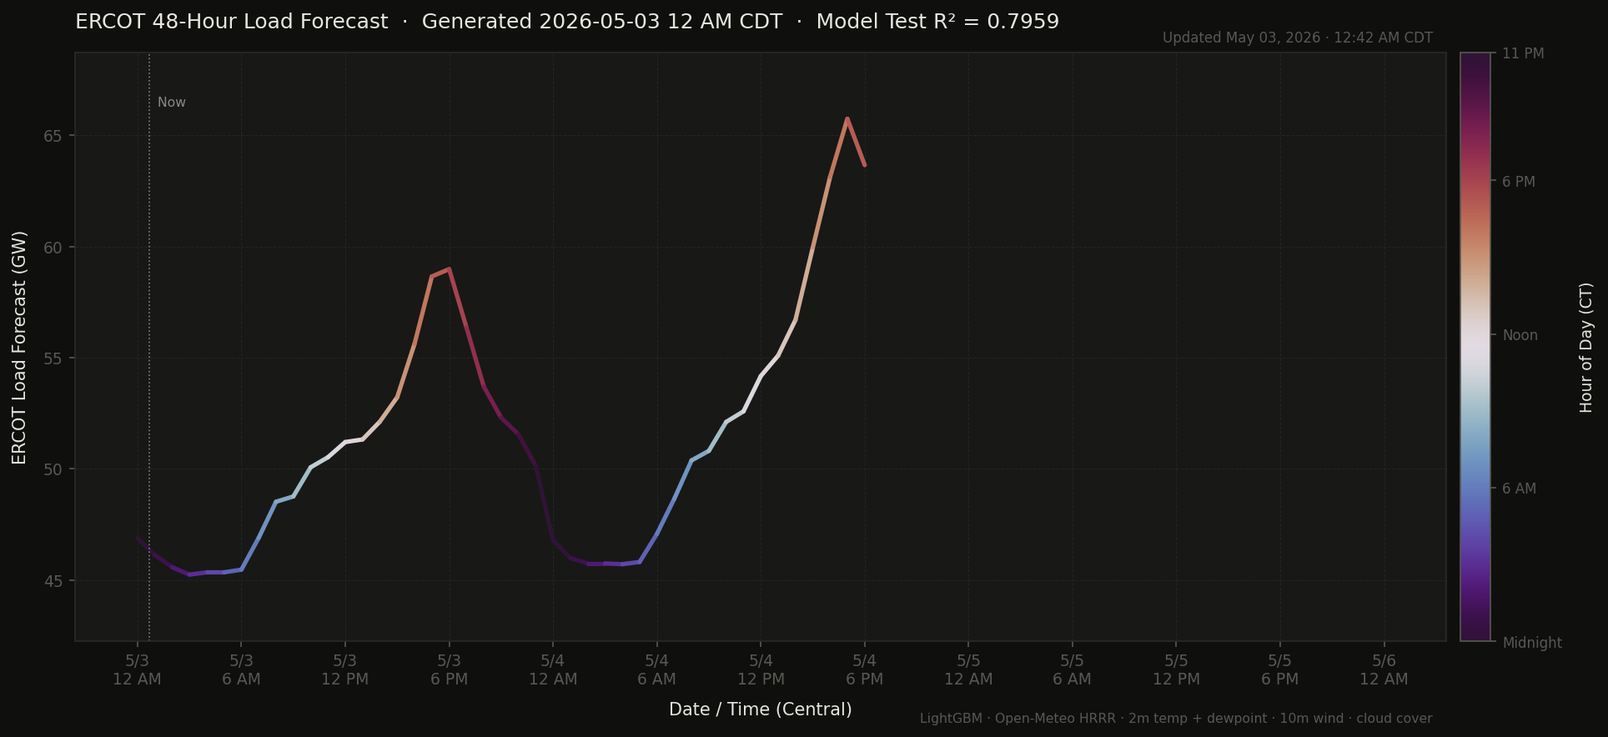
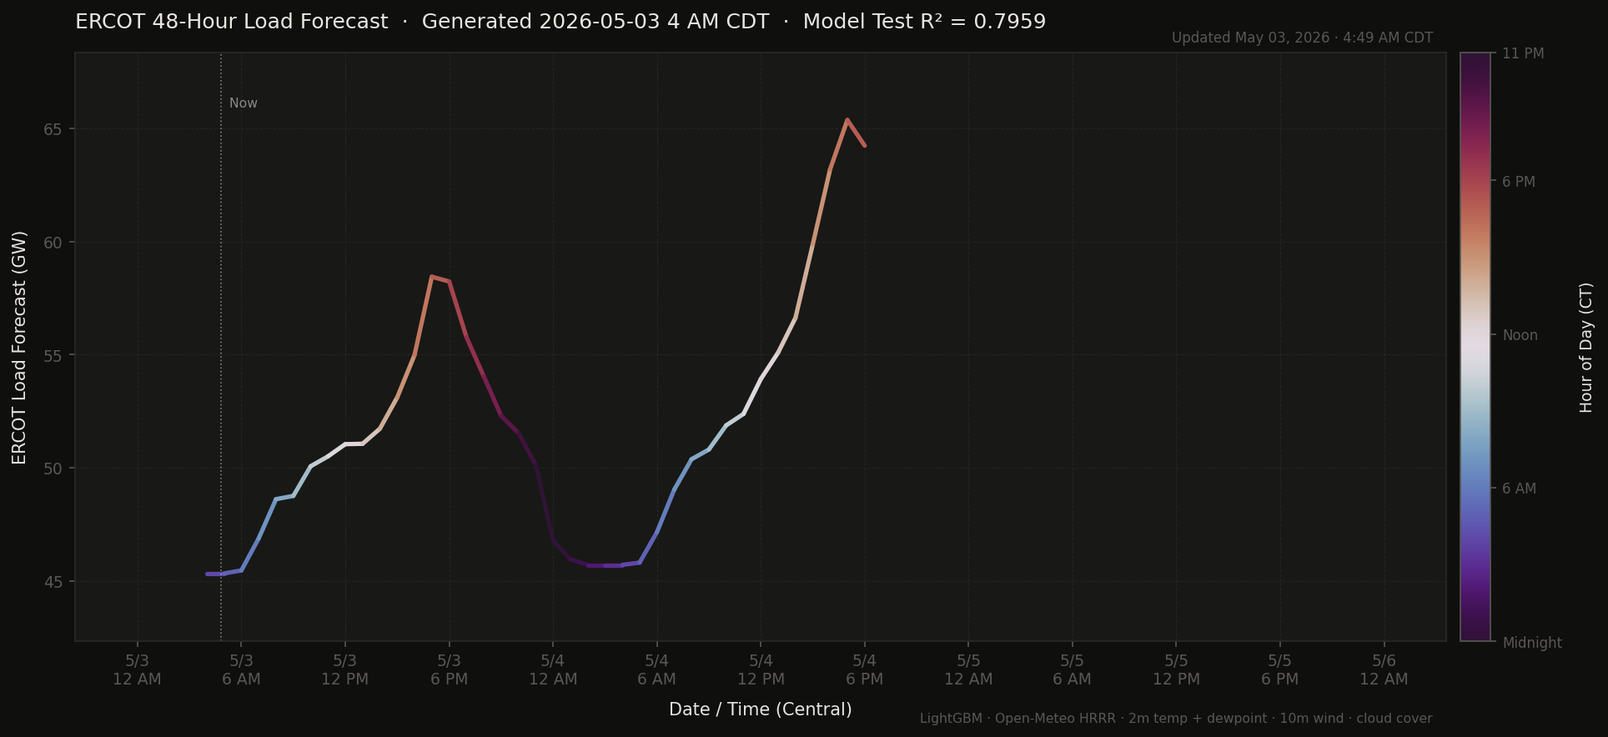
chore: update ERCOT load forecast [skip ci]

diff --git a/assets/ercot_forecast.html b/assets/ercot_forecast.html
@@ -2,6 +2,6 @@
 <head><meta charset="utf-8" /></head>
 <body>
     <div>                        <script type="text/javascript">window.PlotlyConfig = {MathJaxConfig: 'local'};</script>
-        <script charset="utf-8" src="https://cdn.plot.ly/plotly-2.32.0.min.js"></script>                <div id="b00d981a-18de-4667-88ca-a6a5ba4282c7" class="plotly-graph-div" style="height:480px; width:100%;"></div>            <script type="text/javascript">                                    window.PLOTLYENV=window.PLOTLYENV || {};                                    if (document.getElementById("b00d981a-18de-4667-88ca-a6a5ba4282c7")) {                    Plotly.newPlot(                        "b00d981a-18de-4667-88ca-a6a5ba4282c7",                        [{"hoverinfo":"text","hovertext":["\u003cb\u003eSat May 2 \u00b7 12:00 AM\u003c\u002fb\u003e\u003cbr\u003eActual: 43.38 GW","\u003cb\u003eSat May 2 \u00b7 1:00 AM\u003c\u002fb\u003e\u003cbr\u003eActual: 42.09 GW","\u003cb\u003eSat May 2 \u00b7 2:00 AM\u003c\u002fb\u003e\u003cbr\u003eActual: 40.99 GW","\u003cb\u003eSat May 2 \u00b7 3:00 AM\u003c\u002fb\u003e\u003cbr\u003eActual: 40.64 GW","\u003cb\u003eSat May 2 \u00b7 4:00 AM\u003c\u002fb\u003e\u003cbr\u003eActual: 40.68 GW","\u003cb\u003eSat May 2 \u00b7 5:00 AM\u003c\u002fb\u003e\u003cbr\u003eActual: 40.95 GW","\u003cb\u003eSat May 2 \u00b7 6:00 AM\u003c\u002fb\u003e\u003cbr\u003eActual: 41.72 GW","\u003cb\u003eSat May 2 \u00b7 7:00 AM\u003c\u002fb\u003e\u003cbr\u003eActual: 42.31 GW","\u003cb\u003eSat May 2 \u00b7 8:00 AM\u003c\u002fb\u003e\u003cbr\u003eActual: 44.93 GW","\u003cb\u003eSat May 2 \u00b7 9:00 AM\u003c\u002fb\u003e\u003cbr\u003eActual: 45.77 GW","\u003cb\u003eSat May 2 \u00b7 10:00 AM\u003c\u002fb\u003e\u003cbr\u003eActual: 46.27 GW","\u003cb\u003eSat May 2 \u00b7 11:00 AM\u003c\u002fb\u003e\u003cbr\u003eActual: 46.82 GW","\u003cb\u003eSat May 2 \u00b7 12:00 PM\u003c\u002fb\u003e\u003cbr\u003eActual: 47.22 GW","\u003cb\u003eSat May 2 \u00b7 1:00 PM\u003c\u002fb\u003e\u003cbr\u003eActual: 47.73 GW","\u003cb\u003eSat May 2 \u00b7 2:00 PM\u003c\u002fb\u003e\u003cbr\u003eActual: 48.48 GW","\u003cb\u003eSat May 2 \u00b7 3:00 PM\u003c\u002fb\u003e\u003cbr\u003eActual: 49.77 GW","\u003cb\u003eSat May 2 \u00b7 4:00 PM\u003c\u002fb\u003e\u003cbr\u003eActual: 51.24 GW","\u003cb\u003eSat May 2 \u00b7 5:00 PM\u003c\u002fb\u003e\u003cbr\u003eActual: 52.40 GW","\u003cb\u003eSat May 2 \u00b7 6:00 PM\u003c\u002fb\u003e\u003cbr\u003eActual: 52.58 GW","\u003cb\u003eSat May 2 \u00b7 7:00 PM\u003c\u002fb\u003e\u003cbr\u003eActual: 51.52 GW","\u003cb\u003eSat May 2 \u00b7 8:00 PM\u003c\u002fb\u003e\u003cbr\u003eActual: 50.97 GW","\u003cb\u003eSat May 2 \u00b7 9:00 PM\u003c\u002fb\u003e\u003cbr\u003eActual: 50.08 GW","\u003cb\u003eSat May 2 \u00b7 10:00 PM\u003c\u002fb\u003e\u003cbr\u003eActual: 48.04 GW","\u003cb\u003eSat May 2 \u00b7 11:00 PM\u003c\u002fb\u003e\u003cbr\u003eActual: 45.97 GW","\u003cb\u003eSat May 2 \u00b7 11:55 PM\u003c\u002fb\u003e\u003cbr\u003eActual: 44.88 GW","\u003cb\u003eSun May 3 \u00b7 12:00 AM\u003c\u002fb\u003e\u003cbr\u003eActual: 44.61 GW","\u003cb\u003eSun May 3 \u00b7 12:05 AM\u003c\u002fb\u003e\u003cbr\u003eActual: 44.63 GW","\u003cb\u003eSun May 3 \u00b7 12:10 AM\u003c\u002fb\u003e\u003cbr\u003eActual: 44.39 GW","\u003cb\u003eSun May 3 \u00b7 12:15 AM\u003c\u002fb\u003e\u003cbr\u003eActual: 44.37 GW","\u003cb\u003eSun May 3 \u00b7 12:20 AM\u003c\u002fb\u003e\u003cbr\u003eActual: 44.26 GW","\u003cb\u003eSun May 3 \u00b7 12:25 AM\u003c\u002fb\u003e\u003cbr\u003eActual: 43.86 GW","\u003cb\u003eSun May 3 \u00b7 12:30 AM\u003c\u002fb\u003e\u003cbr\u003eActual: 43.66 GW","\u003cb\u003eSun May 3 \u00b7 12:35 AM\u003c\u002fb\u003e\u003cbr\u003eActual: 43.77 GW"],"line":{"color":"#a8a59f","width":1.8},"mode":"lines","name":"Actual (5-min)","opacity":0.85,"x":["2026-05-02T00:00:00","2026-05-02T01:00:00","2026-05-02T02:00:00","2026-05-02T03:00:00","2026-05-02T04:00:00","2026-05-02T05:00:00","2026-05-02T06:00:00","2026-05-02T07:00:00","2026-05-02T08:00:00","2026-05-02T09:00:00","2026-05-02T10:00:00","2026-05-02T11:00:00","2026-05-02T12:00:00","2026-05-02T13:00:00","2026-05-02T14:00:00","2026-05-02T15:00:00","2026-05-02T16:00:00","2026-05-02T17:00:00","2026-05-02T18:00:00","2026-05-02T19:00:00","2026-05-02T20:00:00","2026-05-02T21:00:00","2026-05-02T22:00:00","2026-05-02T23:00:00","2026-05-02T23:55:00","2026-05-03T00:00:00","2026-05-03T00:05:00","2026-05-03T00:10:00","2026-05-03T00:15:00","2026-05-03T00:20:00","2026-05-03T00:25:00","2026-05-03T00:30:00","2026-05-03T00:35:00"],"y":[43.379419999999996,42.09296,40.99112,40.6373,40.675839999999994,40.94999,41.72053,42.312760000000004,44.93495,45.771370000000005,46.273900000000005,46.822160000000004,47.222559999999994,47.72683,48.47675,49.77391,51.237629999999996,52.402190000000004,52.5769,51.518339999999995,50.96886,50.07847,48.04341,45.969730000000006,44.875,44.606,44.629,44.391,44.371,44.259,43.863,43.66,43.765],"type":"scatter"},{"hoverinfo":"text","hovertext":["\u003cb\u003eSun May 3 \u00b7 12 AM\u003c\u002fb\u003e\u003cbr\u003eForecast: 46.88 GW","\u003cb\u003eSun May 3 \u00b7 1 AM\u003c\u002fb\u003e\u003cbr\u003eForecast: 46.12 GW","\u003cb\u003eSun May 3 \u00b7 2 AM\u003c\u002fb\u003e\u003cbr\u003eForecast: 45.57 GW","\u003cb\u003eSun May 3 \u00b7 3 AM\u003c\u002fb\u003e\u003cbr\u003eForecast: 45.24 GW","\u003cb\u003eSun May 3 \u00b7 4 AM\u003c\u002fb\u003e\u003cbr\u003eForecast: 45.34 GW","\u003cb\u003eSun May 3 \u00b7 5 AM\u003c\u002fb\u003e\u003cbr\u003eForecast: 45.34 GW","\u003cb\u003eSun May 3 \u00b7 6 AM\u003c\u002fb\u003e\u003cbr\u003eForecast: 45.46 GW","\u003cb\u003eSun May 3 \u00b7 7 AM\u003c\u002fb\u003e\u003cbr\u003eForecast: 46.89 GW","\u003cb\u003eSun May 3 \u00b7 8 AM\u003c\u002fb\u003e\u003cbr\u003eForecast: 48.51 GW","\u003cb\u003eSun May 3 \u00b7 9 AM\u003c\u002fb\u003e\u003cbr\u003eForecast: 48.75 GW","\u003cb\u003eSun May 3 \u00b7 10 AM\u003c\u002fb\u003e\u003cbr\u003eForecast: 50.06 GW","\u003cb\u003eSun May 3 \u00b7 11 AM\u003c\u002fb\u003e\u003cbr\u003eForecast: 50.52 GW","\u003cb\u003eSun May 3 \u00b7 12 PM\u003c\u002fb\u003e\u003cbr\u003eForecast: 51.20 GW","\u003cb\u003eSun May 3 \u00b7 1 PM\u003c\u002fb\u003e\u003cbr\u003eForecast: 51.32 GW","\u003cb\u003eSun May 3 \u00b7 2 PM\u003c\u002fb\u003e\u003cbr\u003eForecast: 52.12 GW","\u003cb\u003eSun May 3 \u00b7 3 PM\u003c\u002fb\u003e\u003cbr\u003eForecast: 53.22 GW","\u003cb\u003eSun May 3 \u00b7 4 PM\u003c\u002fb\u003e\u003cbr\u003eForecast: 55.62 GW","\u003cb\u003eSun May 3 \u00b7 5 PM\u003c\u002fb\u003e\u003cbr\u003eForecast: 58.65 GW","\u003cb\u003eSun May 3 \u00b7 6 PM\u003c\u002fb\u003e\u003cbr\u003eForecast: 58.98 GW","\u003cb\u003eSun May 3 \u00b7 7 PM\u003c\u002fb\u003e\u003cbr\u003eForecast: 56.35 GW","\u003cb\u003eSun May 3 \u00b7 8 PM\u003c\u002fb\u003e\u003cbr\u003eForecast: 53.70 GW","\u003cb\u003eSun May 3 \u00b7 9 PM\u003c\u002fb\u003e\u003cbr\u003eForecast: 52.30 GW","\u003cb\u003eSun May 3 \u00b7 10 PM\u003c\u002fb\u003e\u003cbr\u003eForecast: 51.55 GW","\u003cb\u003eSun May 3 \u00b7 11 PM\u003c\u002fb\u003e\u003cbr\u003eForecast: 50.13 GW","\u003cb\u003eMon May 4 \u00b7 12 AM\u003c\u002fb\u003e\u003cbr\u003eForecast: 46.78 GW","\u003cb\u003eMon May 4 \u00b7 1 AM\u003c\u002fb\u003e\u003cbr\u003eForecast: 45.99 GW","\u003cb\u003eMon May 4 \u00b7 2 AM\u003c\u002fb\u003e\u003cbr\u003eForecast: 45.74 GW","\u003cb\u003eMon May 4 \u00b7 3 AM\u003c\u002fb\u003e\u003cbr\u003eForecast: 45.74 GW","\u003cb\u003eMon May 4 \u00b7 4 AM\u003c\u002fb\u003e\u003cbr\u003eForecast: 45.70 GW","\u003cb\u003eMon May 4 \u00b7 5 AM\u003c\u002fb\u003e\u003cbr\u003eForecast: 45.80 GW","\u003cb\u003eMon May 4 \u00b7 6 AM\u003c\u002fb\u003e\u003cbr\u003eForecast: 47.07 GW","\u003cb\u003eMon May 4 \u00b7 7 AM\u003c\u002fb\u003e\u003cbr\u003eForecast: 48.64 GW","\u003cb\u003eMon May 4 \u00b7 8 AM\u003c\u002fb\u003e\u003cbr\u003eForecast: 50.38 GW","\u003cb\u003eMon May 4 \u00b7 9 AM\u003c\u002fb\u003e\u003cbr\u003eForecast: 50.80 GW","\u003cb\u003eMon May 4 \u00b7 10 AM\u003c\u002fb\u003e\u003cbr\u003eForecast: 52.11 GW","\u003cb\u003eMon May 4 \u00b7 11 AM\u003c\u002fb\u003e\u003cbr\u003eForecast: 52.58 GW","\u003cb\u003eMon May 4 \u00b7 12 PM\u003c\u002fb\u003e\u003cbr\u003eForecast: 54.17 GW","\u003cb\u003eMon May 4 \u00b7 1 PM\u003c\u002fb\u003e\u003cbr\u003eForecast: 55.09 GW","\u003cb\u003eMon May 4 \u00b7 2 PM\u003c\u002fb\u003e\u003cbr\u003eForecast: 56.69 GW","\u003cb\u003eMon May 4 \u00b7 3 PM\u003c\u002fb\u003e\u003cbr\u003eForecast: 59.94 GW","\u003cb\u003eMon May 4 \u00b7 4 PM\u003c\u002fb\u003e\u003cbr\u003eForecast: 63.13 GW","\u003cb\u003eMon May 4 \u00b7 5 PM\u003c\u002fb\u003e\u003cbr\u003eForecast: 65.74 GW","\u003cb\u003eMon May 4 \u00b7 6 PM\u003c\u002fb\u003e\u003cbr\u003eForecast: 63.66 GW"],"line":{"color":"#7e9fc7","shape":"spline","smoothing":1.3,"width":3},"marker":{"color":["#1a1a2e","#1f2240","#27314f","#314058","#3b4f5e","#465e62","#536c64","#637765","#778066","#8c8869","#a18e6f","#b6917a","#c79289","#d39198","#dc8da6","#e088b3","#df85bf","#d683c9","#c283ce","#a784ce","#8585c9","#6685bf","#4f80ad","#3a7095","#1a1a2e","#1f2240","#27314f","#314058","#3b4f5e","#465e62","#536c64","#637765","#778066","#8c8869","#a18e6f","#b6917a","#c79289","#d39198","#dc8da6","#e088b3","#df85bf","#d683c9","#c283ce"],"line":{"width":0},"size":7},"mode":"lines+markers","name":"Forecast","x":["2026-05-03T00:00:00","2026-05-03T01:00:00","2026-05-03T02:00:00","2026-05-03T03:00:00","2026-05-03T04:00:00","2026-05-03T05:00:00","2026-05-03T06:00:00","2026-05-03T07:00:00","2026-05-03T08:00:00","2026-05-03T09:00:00","2026-05-03T10:00:00","2026-05-03T11:00:00","2026-05-03T12:00:00","2026-05-03T13:00:00","2026-05-03T14:00:00","2026-05-03T15:00:00","2026-05-03T16:00:00","2026-05-03T17:00:00","2026-05-03T18:00:00","2026-05-03T19:00:00","2026-05-03T20:00:00","2026-05-03T21:00:00","2026-05-03T22:00:00","2026-05-03T23:00:00","2026-05-04T00:00:00","2026-05-04T01:00:00","2026-05-04T02:00:00","2026-05-04T03:00:00","2026-05-04T04:00:00","2026-05-04T05:00:00","2026-05-04T06:00:00","2026-05-04T07:00:00","2026-05-04T08:00:00","2026-05-04T09:00:00","2026-05-04T10:00:00","2026-05-04T11:00:00","2026-05-04T12:00:00","2026-05-04T13:00:00","2026-05-04T14:00:00","2026-05-04T15:00:00","2026-05-04T16:00:00","2026-05-04T17:00:00","2026-05-04T18:00:00"],"y":[46.88410940593108,46.120013578711884,45.56938439842476,45.23647445698657,45.338788323135894,45.338788323135894,45.45866852709373,46.891542672022524,48.514093267162075,48.75398609909169,50.063702171421674,50.517558592199194,51.200449757712896,51.31757168117349,52.12127066742294,53.21688382047826,55.61986878753003,58.65045441562073,58.98036332780021,56.3530380492227,53.697558109508115,52.29703616559613,51.548713383759626,50.13023349258877,46.77686061354444,45.98643932288479,45.74104678889874,45.74104678889874,45.704402494295934,45.8048870842264,47.06743831650536,48.64470399108558,50.375204729896055,50.80477012295877,52.1058897941358,52.58267622018793,54.17064169252831,55.09142990189956,56.69297581808881,59.94299753213705,63.12544730277149,65.74352612319161,63.65978026186073],"type":"scatter"}],                        {"template":{"data":{"histogram2dcontour":[{"type":"histogram2dcontour","colorbar":{"outlinewidth":0,"ticks":""},"colorscale":[[0.0,"#0d0887"],[0.1111111111111111,"#46039f"],[0.2222222222222222,"#7201a8"],[0.3333333333333333,"#9c179e"],[0.4444444444444444,"#bd3786"],[0.5555555555555556,"#d8576b"],[0.6666666666666666,"#ed7953"],[0.7777777777777778,"#fb9f3a"],[0.8888888888888888,"#fdca26"],[1.0,"#f0f921"]]}],"choropleth":[{"type":"choropleth","colorbar":{"outlinewidth":0,"ticks":""}}],"histogram2d":[{"type":"histogram2d","colorbar":{"outlinewidth":0,"ticks":""},"colorscale":[[0.0,"#0d0887"],[0.1111111111111111,"#46039f"],[0.2222222222222222,"#7201a8"],[0.3333333333333333,"#9c179e"],[0.4444444444444444,"#bd3786"],[0.5555555555555556,"#d8576b"],[0.6666666666666666,"#ed7953"],[0.7777777777777778,"#fb9f3a"],[0.8888888888888888,"#fdca26"],[1.0,"#f0f921"]]}],"heatmap":[{"type":"heatmap","colorbar":{"outlinewidth":0,"ticks":""},"colorscale":[[0.0,"#0d0887"],[0.1111111111111111,"#46039f"],[0.2222222222222222,"#7201a8"],[0.3333333333333333,"#9c179e"],[0.4444444444444444,"#bd3786"],[0.5555555555555556,"#d8576b"],[0.6666666666666666,"#ed7953"],[0.7777777777777778,"#fb9f3a"],[0.8888888888888888,"#fdca26"],[1.0,"#f0f921"]]}],"heatmapgl":[{"type":"heatmapgl","colorbar":{"outlinewidth":0,"ticks":""},"colorscale":[[0.0,"#0d0887"],[0.1111111111111111,"#46039f"],[0.2222222222222222,"#7201a8"],[0.3333333333333333,"#9c179e"],[0.4444444444444444,"#bd3786"],[0.5555555555555556,"#d8576b"],[0.6666666666666666,"#ed7953"],[0.7777777777777778,"#fb9f3a"],[0.8888888888888888,"#fdca26"],[1.0,"#f0f921"]]}],"contourcarpet":[{"type":"contourcarpet","colorbar":{"outlinewidth":0,"ticks":""}}],"contour":[{"type":"contour","colorbar":{"outlinewidth":0,"ticks":""},"colorscale":[[0.0,"#0d0887"],[0.1111111111111111,"#46039f"],[0.2222222222222222,"#7201a8"],[0.3333333333333333,"#9c179e"],[0.4444444444444444,"#bd3786"],[0.5555555555555556,"#d8576b"],[0.6666666666666666,"#ed7953"],[0.7777777777777778,"#fb9f3a"],[0.8888888888888888,"#fdca26"],[1.0,"#f0f921"]]}],"surface":[{"type":"surface","colorbar":{"outlinewidth":0,"ticks":""},"colorscale":[[0.0,"#0d0887"],[0.1111111111111111,"#46039f"],[0.2222222222222222,"#7201a8"],[0.3333333333333333,"#9c179e"],[0.4444444444444444,"#bd3786"],[0.5555555555555556,"#d8576b"],[0.6666666666666666,"#ed7953"],[0.7777777777777778,"#fb9f3a"],[0.8888888888888888,"#fdca26"],[1.0,"#f0f921"]]}],"mesh3d":[{"type":"mesh3d","colorbar":{"outlinewidth":0,"ticks":""}}],"scatter":[{"fillpattern":{"fillmode":"overlay","size":10,"solidity":0.2},"type":"scatter"}],"parcoords":[{"type":"parcoords","line":{"colorbar":{"outlinewidth":0,"ticks":""}}}],"scatterpolargl":[{"type":"scatterpolargl","marker":{"colorbar":{"outlinewidth":0,"ticks":""}}}],"bar":[{"error_x":{"color":"#2a3f5f"},"error_y":{"color":"#2a3f5f"},"marker":{"line":{"color":"#E5ECF6","width":0.5},"pattern":{"fillmode":"overlay","size":10,"solidity":0.2}},"type":"bar"}],"scattergeo":[{"type":"scattergeo","marker":{"colorbar":{"outlinewidth":0,"ticks":""}}}],"scatterpolar":[{"type":"scatterpolar","marker":{"colorbar":{"outlinewidth":0,"ticks":""}}}],"histogram":[{"marker":{"pattern":{"fillmode":"overlay","size":10,"solidity":0.2}},"type":"histogram"}],"scattergl":[{"type":"scattergl","marker":{"colorbar":{"outlinewidth":0,"ticks":""}}}],"scatter3d":[{"type":"scatter3d","line":{"colorbar":{"outlinewidth":0,"ticks":""}},"marker":{"colorbar":{"outlinewidth":0,"ticks":""}}}],"scattermapbox":[{"type":"scattermapbox","marker":{"colorbar":{"outlinewidth":0,"ticks":""}}}],"scatterternary":[{"type":"scatterternary","marker":{"colorbar":{"outlinewidth":0,"ticks":""}}}],"scattercarpet":[{"type":"scattercarpet","marker":{"colorbar":{"outlinewidth":0,"ticks":""}}}],"carpet":[{"aaxis":{"endlinecolor":"#2a3f5f","gridcolor":"white","linecolor":"white","minorgridcolor":"white","startlinecolor":"#2a3f5f"},"baxis":{"endlinecolor":"#2a3f5f","gridcolor":"white","linecolor":"white","minorgridcolor":"white","startlinecolor":"#2a3f5f"},"type":"carpet"}],"table":[{"cells":{"fill":{"color":"#EBF0F8"},"line":{"color":"white"}},"header":{"fill":{"color":"#C8D4E3"},"line":{"color":"white"}},"type":"table"}],"barpolar":[{"marker":{"line":{"color":"#E5ECF6","width":0.5},"pattern":{"fillmode":"overlay","size":10,"solidity":0.2}},"type":"barpolar"}],"pie":[{"automargin":true,"type":"pie"}]},"layout":{"autotypenumbers":"strict","colorway":["#636efa","#EF553B","#00cc96","#ab63fa","#FFA15A","#19d3f3","#FF6692","#B6E880","#FF97FF","#FECB52"],"font":{"color":"#2a3f5f"},"hovermode":"closest","hoverlabel":{"align":"left"},"paper_bgcolor":"white","plot_bgcolor":"#E5ECF6","polar":{"bgcolor":"#E5ECF6","angularaxis":{"gridcolor":"white","linecolor":"white","ticks":""},"radialaxis":{"gridcolor":"white","linecolor":"white","ticks":""}},"ternary":{"bgcolor":"#E5ECF6","aaxis":{"gridcolor":"white","linecolor":"white","ticks":""},"baxis":{"gridcolor":"white","linecolor":"white","ticks":""},"caxis":{"gridcolor":"white","linecolor":"white","ticks":""}},"coloraxis":{"colorbar":{"outlinewidth":0,"ticks":""}},"colorscale":{"sequential":[[0.0,"#0d0887"],[0.1111111111111111,"#46039f"],[0.2222222222222222,"#7201a8"],[0.3333333333333333,"#9c179e"],[0.4444444444444444,"#bd3786"],[0.5555555555555556,"#d8576b"],[0.6666666666666666,"#ed7953"],[0.7777777777777778,"#fb9f3a"],[0.8888888888888888,"#fdca26"],[1.0,"#f0f921"]],"sequentialminus":[[0.0,"#0d0887"],[0.1111111111111111,"#46039f"],[0.2222222222222222,"#7201a8"],[0.3333333333333333,"#9c179e"],[0.4444444444444444,"#bd3786"],[0.5555555555555556,"#d8576b"],[0.6666666666666666,"#ed7953"],[0.7777777777777778,"#fb9f3a"],[0.8888888888888888,"#fdca26"],[1.0,"#f0f921"]],"diverging":[[0,"#8e0152"],[0.1,"#c51b7d"],[0.2,"#de77ae"],[0.3,"#f1b6da"],[0.4,"#fde0ef"],[0.5,"#f7f7f7"],[0.6,"#e6f5d0"],[0.7,"#b8e186"],[0.8,"#7fbc41"],[0.9,"#4d9221"],[1,"#276419"]]},"xaxis":{"gridcolor":"white","linecolor":"white","ticks":"","title":{"standoff":15},"zerolinecolor":"white","automargin":true,"zerolinewidth":2},"yaxis":{"gridcolor":"white","linecolor":"white","ticks":"","title":{"standoff":15},"zerolinecolor":"white","automargin":true,"zerolinewidth":2},"scene":{"xaxis":{"backgroundcolor":"#E5ECF6","gridcolor":"white","linecolor":"white","showbackground":true,"ticks":"","zerolinecolor":"white","gridwidth":2},"yaxis":{"backgroundcolor":"#E5ECF6","gridcolor":"white","linecolor":"white","showbackground":true,"ticks":"","zerolinecolor":"white","gridwidth":2},"zaxis":{"backgroundcolor":"#E5ECF6","gridcolor":"white","linecolor":"white","showbackground":true,"ticks":"","zerolinecolor":"white","gridwidth":2}},"shapedefaults":{"line":{"color":"#2a3f5f"}},"annotationdefaults":{"arrowcolor":"#2a3f5f","arrowhead":0,"arrowwidth":1},"geo":{"bgcolor":"white","landcolor":"#E5ECF6","subunitcolor":"white","showland":true,"showlakes":true,"lakecolor":"white"},"title":{"x":0.05},"mapbox":{"style":"light"}}},"shapes":[{"line":{"color":"#e8e6e0","dash":"dot","width":1},"opacity":0.5,"type":"line","x0":"2026-05-03 00:42:02","x1":"2026-05-03 00:42:02","y0":0,"y1":1,"yref":"paper"},{"fillcolor":"#1a1a18","layer":"below","line":{"width":0},"opacity":0.4,"type":"rect","x0":"2026-05-02 00:00:00","x1":"2026-05-03 00:00:00","y0":0,"y1":1,"yref":"paper"},{"fillcolor":"#1a1a18","layer":"below","line":{"width":0},"opacity":0.4,"type":"rect","x0":"2026-05-04 00:00:00","x1":"2026-05-05 00:00:00","y0":0,"y1":1,"yref":"paper"}],"annotations":[{"font":{"color":"#e8e6e0","size":11},"showarrow":false,"text":"Now","x":"2026-05-03 00:42:02","xanchor":"left","xshift":4,"y":1,"yanchor":"top","yref":"paper"},{"font":{"color":"#5a5855","family":"Inter, sans-serif","size":10},"showarrow":false,"text":"LightGBM \u00b7 Open-Meteo HRRR \u00b7 2m temp + dewpoint \u00b7 10m wind \u00b7 cloud cover","x":0.99,"xanchor":"right","xref":"paper","y":-0.16,"yanchor":"top","yref":"paper"}],"title":{"font":{"color":"#e8e6e0","size":16,"family":"Inter, sans-serif"},"text":"\u003cb\u003eERCOT 48-Hour Load Forecast\u003c\u002fb\u003e\u003cspan style='font-size:13px;color:#888580;'\u003e  \u00b7  Generated May 3, 12 AM CDT  \u00b7  Test R\u00b2 = 0.7959\u003c\u002fspan\u003e","x":0.02,"xanchor":"left"},"xaxis":{"title":{"font":{"color":"#e8e6e0","size":12},"text":"Date \u002f Time (Central)"},"color":"#5a5855","gridcolor":"#2a2a28","showgrid":true,"gridwidth":0.5,"tickformat":"%-m\u002f%-d\u003cbr\u003e%-I %p","range":["2026-05-02 00:00:00","2026-05-04 18:00:00"]},"yaxis":{"title":{"font":{"color":"#e8e6e0","size":12},"text":"ERCOT Load (GW)"},"color":"#5a5855","gridcolor":"#2a2a28","showgrid":true,"gridwidth":0.5,"range":[36.87136608152126,69.50946004167035]},"font":{"family":"Inter, sans-serif","color":"#5a5855"},"margin":{"l":70,"r":40,"t":70,"b":80},"hoverlabel":{"font":{"color":"#e8e6e0","size":12,"family":"Inter, sans-serif"},"bgcolor":"#1a1a18","bordercolor":"#2a2a28"},"legend":{"font":{"color":"#e8e6e0","size":11},"x":0.01,"y":0.99,"xanchor":"left","yanchor":"top","bgcolor":"rgba(26,26,24,0.6)","bordercolor":"#2a2a28","borderwidth":1},"plot_bgcolor":"#181816","paper_bgcolor":"#0f0f0d","hovermode":"x unified","height":480},                        {"displaylogo": false, "modeBarButtonsToRemove": ["select2d", "lasso2d", "autoScale2d"], "responsive": true}                    )                };                            </script>        </div>
+        <script charset="utf-8" src="https://cdn.plot.ly/plotly-2.32.0.min.js"></script>                <div id="0de735d7-8966-42fd-b9da-d8e56af8b6d6" class="plotly-graph-div" style="height:480px; width:100%;"></div>            <script type="text/javascript">                                    window.PLOTLYENV=window.PLOTLYENV || {};                                    if (document.getElementById("0de735d7-8966-42fd-b9da-d8e56af8b6d6")) {                    Plotly.newPlot(                        "0de735d7-8966-42fd-b9da-d8e56af8b6d6",                        [{"hoverinfo":"text","hovertext":["\u003cb\u003eSat May 2 \u00b7 12:00 AM\u003c\u002fb\u003e\u003cbr\u003eActual: 43.38 GW","\u003cb\u003eSat May 2 \u00b7 1:00 AM\u003c\u002fb\u003e\u003cbr\u003eActual: 42.09 GW","\u003cb\u003eSat May 2 \u00b7 2:00 AM\u003c\u002fb\u003e\u003cbr\u003eActual: 40.99 GW","\u003cb\u003eSat May 2 \u00b7 3:00 AM\u003c\u002fb\u003e\u003cbr\u003eActual: 40.64 GW","\u003cb\u003eSat May 2 \u00b7 4:00 AM\u003c\u002fb\u003e\u003cbr\u003eActual: 40.68 GW","\u003cb\u003eSat May 2 \u00b7 5:00 AM\u003c\u002fb\u003e\u003cbr\u003eActual: 40.95 GW","\u003cb\u003eSat May 2 \u00b7 6:00 AM\u003c\u002fb\u003e\u003cbr\u003eActual: 41.72 GW","\u003cb\u003eSat May 2 \u00b7 7:00 AM\u003c\u002fb\u003e\u003cbr\u003eActual: 42.31 GW","\u003cb\u003eSat May 2 \u00b7 8:00 AM\u003c\u002fb\u003e\u003cbr\u003eActual: 44.93 GW","\u003cb\u003eSat May 2 \u00b7 9:00 AM\u003c\u002fb\u003e\u003cbr\u003eActual: 45.77 GW","\u003cb\u003eSat May 2 \u00b7 10:00 AM\u003c\u002fb\u003e\u003cbr\u003eActual: 46.27 GW","\u003cb\u003eSat May 2 \u00b7 11:00 AM\u003c\u002fb\u003e\u003cbr\u003eActual: 46.82 GW","\u003cb\u003eSat May 2 \u00b7 12:00 PM\u003c\u002fb\u003e\u003cbr\u003eActual: 47.22 GW","\u003cb\u003eSat May 2 \u00b7 1:00 PM\u003c\u002fb\u003e\u003cbr\u003eActual: 47.73 GW","\u003cb\u003eSat May 2 \u00b7 2:00 PM\u003c\u002fb\u003e\u003cbr\u003eActual: 48.48 GW","\u003cb\u003eSat May 2 \u00b7 3:00 PM\u003c\u002fb\u003e\u003cbr\u003eActual: 49.77 GW","\u003cb\u003eSat May 2 \u00b7 4:00 PM\u003c\u002fb\u003e\u003cbr\u003eActual: 51.24 GW","\u003cb\u003eSat May 2 \u00b7 5:00 PM\u003c\u002fb\u003e\u003cbr\u003eActual: 52.40 GW","\u003cb\u003eSat May 2 \u00b7 6:00 PM\u003c\u002fb\u003e\u003cbr\u003eActual: 52.58 GW","\u003cb\u003eSat May 2 \u00b7 7:00 PM\u003c\u002fb\u003e\u003cbr\u003eActual: 51.52 GW","\u003cb\u003eSat May 2 \u00b7 8:00 PM\u003c\u002fb\u003e\u003cbr\u003eActual: 50.97 GW","\u003cb\u003eSat May 2 \u00b7 9:00 PM\u003c\u002fb\u003e\u003cbr\u003eActual: 50.08 GW","\u003cb\u003eSat May 2 \u00b7 10:00 PM\u003c\u002fb\u003e\u003cbr\u003eActual: 48.04 GW","\u003cb\u003eSat May 2 \u00b7 11:00 PM\u003c\u002fb\u003e\u003cbr\u003eActual: 45.97 GW","\u003cb\u003eSat May 2 \u00b7 11:55 PM\u003c\u002fb\u003e\u003cbr\u003eActual: 44.88 GW","\u003cb\u003eSun May 3 \u00b7 12:00 AM\u003c\u002fb\u003e\u003cbr\u003eActual: 44.61 GW","\u003cb\u003eSun May 3 \u00b7 12:05 AM\u003c\u002fb\u003e\u003cbr\u003eActual: 44.63 GW","\u003cb\u003eSun May 3 \u00b7 12:10 AM\u003c\u002fb\u003e\u003cbr\u003eActual: 44.39 GW","\u003cb\u003eSun May 3 \u00b7 12:15 AM\u003c\u002fb\u003e\u003cbr\u003eActual: 44.37 GW","\u003cb\u003eSun May 3 \u00b7 12:20 AM\u003c\u002fb\u003e\u003cbr\u003eActual: 44.26 GW","\u003cb\u003eSun May 3 \u00b7 12:25 AM\u003c\u002fb\u003e\u003cbr\u003eActual: 43.86 GW","\u003cb\u003eSun May 3 \u00b7 12:30 AM\u003c\u002fb\u003e\u003cbr\u003eActual: 43.66 GW","\u003cb\u003eSun May 3 \u00b7 12:35 AM\u003c\u002fb\u003e\u003cbr\u003eActual: 43.77 GW","\u003cb\u003eSun May 3 \u00b7 12:40 AM\u003c\u002fb\u003e\u003cbr\u003eActual: 43.66 GW","\u003cb\u003eSun May 3 \u00b7 12:45 AM\u003c\u002fb\u003e\u003cbr\u003eActual: 43.65 GW","\u003cb\u003eSun May 3 \u00b7 12:50 AM\u003c\u002fb\u003e\u003cbr\u003eActual: 43.36 GW","\u003cb\u003eSun May 3 \u00b7 12:55 AM\u003c\u002fb\u003e\u003cbr\u003eActual: 43.13 GW","\u003cb\u003eSun May 3 \u00b7 1:00 AM\u003c\u002fb\u003e\u003cbr\u003eActual: 43.21 GW","\u003cb\u003eSun May 3 \u00b7 1:05 AM\u003c\u002fb\u003e\u003cbr\u003eActual: 43.06 GW","\u003cb\u003eSun May 3 \u00b7 1:10 AM\u003c\u002fb\u003e\u003cbr\u003eActual: 42.94 GW","\u003cb\u003eSun May 3 \u00b7 1:15 AM\u003c\u002fb\u003e\u003cbr\u003eActual: 42.80 GW","\u003cb\u003eSun May 3 \u00b7 1:20 AM\u003c\u002fb\u003e\u003cbr\u003eActual: 42.61 GW","\u003cb\u003eSun May 3 \u00b7 1:25 AM\u003c\u002fb\u003e\u003cbr\u003eActual: 42.52 GW","\u003cb\u003eSun May 3 \u00b7 1:30 AM\u003c\u002fb\u003e\u003cbr\u003eActual: 42.33 GW","\u003cb\u003eSun May 3 \u00b7 1:35 AM\u003c\u002fb\u003e\u003cbr\u003eActual: 42.38 GW","\u003cb\u003eSun May 3 \u00b7 1:40 AM\u003c\u002fb\u003e\u003cbr\u003eActual: 42.33 GW","\u003cb\u003eSun May 3 \u00b7 1:45 AM\u003c\u002fb\u003e\u003cbr\u003eActual: 42.11 GW","\u003cb\u003eSun May 3 \u00b7 1:50 AM\u003c\u002fb\u003e\u003cbr\u003eActual: 42.17 GW","\u003cb\u003eSun May 3 \u00b7 1:55 AM\u003c\u002fb\u003e\u003cbr\u003eActual: 41.82 GW","\u003cb\u003eSun May 3 \u00b7 2:00 AM\u003c\u002fb\u003e\u003cbr\u003eActual: 41.72 GW","\u003cb\u003eSun May 3 \u00b7 2:05 AM\u003c\u002fb\u003e\u003cbr\u003eActual: 41.97 GW","\u003cb\u003eSun May 3 \u00b7 2:10 AM\u003c\u002fb\u003e\u003cbr\u003eActual: 41.73 GW","\u003cb\u003eSun May 3 \u00b7 2:15 AM\u003c\u002fb\u003e\u003cbr\u003eActual: 41.61 GW","\u003cb\u003eSun May 3 \u00b7 2:20 AM\u003c\u002fb\u003e\u003cbr\u003eActual: 41.51 GW","\u003cb\u003eSun May 3 \u00b7 2:25 AM\u003c\u002fb\u003e\u003cbr\u003eActual: 41.37 GW","\u003cb\u003eSun May 3 \u00b7 2:30 AM\u003c\u002fb\u003e\u003cbr\u003eActual: 41.37 GW","\u003cb\u003eSun May 3 \u00b7 2:35 AM\u003c\u002fb\u003e\u003cbr\u003eActual: 41.21 GW","\u003cb\u003eSun May 3 \u00b7 2:40 AM\u003c\u002fb\u003e\u003cbr\u003eActual: 41.35 GW","\u003cb\u003eSun May 3 \u00b7 2:45 AM\u003c\u002fb\u003e\u003cbr\u003eActual: 41.36 GW","\u003cb\u003eSun May 3 \u00b7 2:50 AM\u003c\u002fb\u003e\u003cbr\u003eActual: 41.31 GW","\u003cb\u003eSun May 3 \u00b7 2:55 AM\u003c\u002fb\u003e\u003cbr\u003eActual: 41.35 GW","\u003cb\u003eSun May 3 \u00b7 3:00 AM\u003c\u002fb\u003e\u003cbr\u003eActual: 41.40 GW","\u003cb\u003eSun May 3 \u00b7 3:05 AM\u003c\u002fb\u003e\u003cbr\u003eActual: 41.20 GW","\u003cb\u003eSun May 3 \u00b7 3:10 AM\u003c\u002fb\u003e\u003cbr\u003eActual: 41.18 GW","\u003cb\u003eSun May 3 \u00b7 3:15 AM\u003c\u002fb\u003e\u003cbr\u003eActual: 41.04 GW","\u003cb\u003eSun May 3 \u00b7 3:20 AM\u003c\u002fb\u003e\u003cbr\u003eActual: 41.08 GW","\u003cb\u003eSun May 3 \u00b7 3:25 AM\u003c\u002fb\u003e\u003cbr\u003eActual: 41.12 GW","\u003cb\u003eSun May 3 \u00b7 3:30 AM\u003c\u002fb\u003e\u003cbr\u003eActual: 41.08 GW","\u003cb\u003eSun May 3 \u00b7 3:35 AM\u003c\u002fb\u003e\u003cbr\u003eActual: 41.09 GW","\u003cb\u003eSun May 3 \u00b7 3:40 AM\u003c\u002fb\u003e\u003cbr\u003eActual: 41.04 GW","\u003cb\u003eSun May 3 \u00b7 3:45 AM\u003c\u002fb\u003e\u003cbr\u003eActual: 40.75 GW","\u003cb\u003eSun May 3 \u00b7 3:50 AM\u003c\u002fb\u003e\u003cbr\u003eActual: 40.85 GW","\u003cb\u003eSun May 3 \u00b7 3:55 AM\u003c\u002fb\u003e\u003cbr\u003eActual: 40.95 GW","\u003cb\u003eSun May 3 \u00b7 4:00 AM\u003c\u002fb\u003e\u003cbr\u003eActual: 40.97 GW","\u003cb\u003eSun May 3 \u00b7 4:05 AM\u003c\u002fb\u003e\u003cbr\u003eActual: 41.08 GW","\u003cb\u003eSun May 3 \u00b7 4:10 AM\u003c\u002fb\u003e\u003cbr\u003eActual: 40.88 GW","\u003cb\u003eSun May 3 \u00b7 4:15 AM\u003c\u002fb\u003e\u003cbr\u003eActual: 40.92 GW","\u003cb\u003eSun May 3 \u00b7 4:20 AM\u003c\u002fb\u003e\u003cbr\u003eActual: 40.94 GW","\u003cb\u003eSun May 3 \u00b7 4:25 AM\u003c\u002fb\u003e\u003cbr\u003eActual: 41.03 GW","\u003cb\u003eSun May 3 \u00b7 4:30 AM\u003c\u002fb\u003e\u003cbr\u003eActual: 41.03 GW","\u003cb\u003eSun May 3 \u00b7 4:35 AM\u003c\u002fb\u003e\u003cbr\u003eActual: 40.92 GW","\u003cb\u003eSun May 3 \u00b7 4:40 AM\u003c\u002fb\u003e\u003cbr\u003eActual: 40.88 GW"],"line":{"color":"#a8a59f","width":1.8},"mode":"lines","name":"Actual (5-min)","opacity":0.85,"x":["2026-05-02T00:00:00","2026-05-02T01:00:00","2026-05-02T02:00:00","2026-05-02T03:00:00","2026-05-02T04:00:00","2026-05-02T05:00:00","2026-05-02T06:00:00","2026-05-02T07:00:00","2026-05-02T08:00:00","2026-05-02T09:00:00","2026-05-02T10:00:00","2026-05-02T11:00:00","2026-05-02T12:00:00","2026-05-02T13:00:00","2026-05-02T14:00:00","2026-05-02T15:00:00","2026-05-02T16:00:00","2026-05-02T17:00:00","2026-05-02T18:00:00","2026-05-02T19:00:00","2026-05-02T20:00:00","2026-05-02T21:00:00","2026-05-02T22:00:00","2026-05-02T23:00:00","2026-05-02T23:55:00","2026-05-03T00:00:00","2026-05-03T00:05:00","2026-05-03T00:10:00","2026-05-03T00:15:00","2026-05-03T00:20:00","2026-05-03T00:25:00","2026-05-03T00:30:00","2026-05-03T00:35:00","2026-05-03T00:40:00","2026-05-03T00:45:00","2026-05-03T00:50:00","2026-05-03T00:55:00","2026-05-03T01:00:00","2026-05-03T01:05:00","2026-05-03T01:10:00","2026-05-03T01:15:00","2026-05-03T01:20:00","2026-05-03T01:25:00","2026-05-03T01:30:00","2026-05-03T01:35:00","2026-05-03T01:40:00","2026-05-03T01:45:00","2026-05-03T01:50:00","2026-05-03T01:55:00","2026-05-03T02:00:00","2026-05-03T02:05:00","2026-05-03T02:10:00","2026-05-03T02:15:00","2026-05-03T02:20:00","2026-05-03T02:25:00","2026-05-03T02:30:00","2026-05-03T02:35:00","2026-05-03T02:40:00","2026-05-03T02:45:00","2026-05-03T02:50:00","2026-05-03T02:55:00","2026-05-03T03:00:00","2026-05-03T03:05:00","2026-05-03T03:10:00","2026-05-03T03:15:00","2026-05-03T03:20:00","2026-05-03T03:25:00","2026-05-03T03:30:00","2026-05-03T03:35:00","2026-05-03T03:40:00","2026-05-03T03:45:00","2026-05-03T03:50:00","2026-05-03T03:55:00","2026-05-03T04:00:00","2026-05-03T04:05:00","2026-05-03T04:10:00","2026-05-03T04:15:00","2026-05-03T04:20:00","2026-05-03T04:25:00","2026-05-03T04:30:00","2026-05-03T04:35:00","2026-05-03T04:40:00"],"y":[43.379419999999996,42.09296,40.99112,40.6373,40.675839999999994,40.94999,41.72053,42.312760000000004,44.93495,45.771370000000005,46.273900000000005,46.822160000000004,47.222559999999994,47.72683,48.47675,49.77391,51.237629999999996,52.402190000000004,52.5769,51.518339999999995,50.96886,50.07847,48.04341,45.969730000000006,44.875,44.606,44.629,44.391,44.371,44.259,43.863,43.66,43.765,43.664,43.649,43.364,43.133,43.208,43.056,42.938,42.804,42.613,42.515,42.33,42.381,42.326,42.11,42.167,41.822,41.72,41.971,41.726,41.609,41.511,41.373,41.368,41.208,41.348,41.362,41.314,41.353,41.398,41.205,41.177,41.044,41.076,41.117,41.084,41.091,41.04,40.752,40.846,40.946,40.969,41.083,40.878,40.917,40.935,41.03,41.028,40.924,40.877],"type":"scatter"},{"hoverinfo":"text","hovertext":["\u003cb\u003eSun May 3 \u00b7 4 AM\u003c\u002fb\u003e\u003cbr\u003eForecast: 45.33 GW","\u003cb\u003eSun May 3 \u00b7 5 AM\u003c\u002fb\u003e\u003cbr\u003eForecast: 45.33 GW","\u003cb\u003eSun May 3 \u00b7 6 AM\u003c\u002fb\u003e\u003cbr\u003eForecast: 45.46 GW","\u003cb\u003eSun May 3 \u00b7 7 AM\u003c\u002fb\u003e\u003cbr\u003eForecast: 46.88 GW","\u003cb\u003eSun May 3 \u00b7 8 AM\u003c\u002fb\u003e\u003cbr\u003eForecast: 48.61 GW","\u003cb\u003eSun May 3 \u00b7 9 AM\u003c\u002fb\u003e\u003cbr\u003eForecast: 48.75 GW","\u003cb\u003eSun May 3 \u00b7 10 AM\u003c\u002fb\u003e\u003cbr\u003eForecast: 50.06 GW","\u003cb\u003eSun May 3 \u00b7 11 AM\u003c\u002fb\u003e\u003cbr\u003eForecast: 50.50 GW","\u003cb\u003eSun May 3 \u00b7 12 PM\u003c\u002fb\u003e\u003cbr\u003eForecast: 51.04 GW","\u003cb\u003eSun May 3 \u00b7 1 PM\u003c\u002fb\u003e\u003cbr\u003eForecast: 51.06 GW","\u003cb\u003eSun May 3 \u00b7 2 PM\u003c\u002fb\u003e\u003cbr\u003eForecast: 51.73 GW","\u003cb\u003eSun May 3 \u00b7 3 PM\u003c\u002fb\u003e\u003cbr\u003eForecast: 53.11 GW","\u003cb\u003eSun May 3 \u00b7 4 PM\u003c\u002fb\u003e\u003cbr\u003eForecast: 54.98 GW","\u003cb\u003eSun May 3 \u00b7 5 PM\u003c\u002fb\u003e\u003cbr\u003eForecast: 58.45 GW","\u003cb\u003eSun May 3 \u00b7 6 PM\u003c\u002fb\u003e\u003cbr\u003eForecast: 58.23 GW","\u003cb\u003eSun May 3 \u00b7 7 PM\u003c\u002fb\u003e\u003cbr\u003eForecast: 55.77 GW","\u003cb\u003eSun May 3 \u00b7 8 PM\u003c\u002fb\u003e\u003cbr\u003eForecast: 54.04 GW","\u003cb\u003eSun May 3 \u00b7 9 PM\u003c\u002fb\u003e\u003cbr\u003eForecast: 52.30 GW","\u003cb\u003eSun May 3 \u00b7 10 PM\u003c\u002fb\u003e\u003cbr\u003eForecast: 51.53 GW","\u003cb\u003eSun May 3 \u00b7 11 PM\u003c\u002fb\u003e\u003cbr\u003eForecast: 50.13 GW","\u003cb\u003eMon May 4 \u00b7 12 AM\u003c\u002fb\u003e\u003cbr\u003eForecast: 46.78 GW","\u003cb\u003eMon May 4 \u00b7 1 AM\u003c\u002fb\u003e\u003cbr\u003eForecast: 45.96 GW","\u003cb\u003eMon May 4 \u00b7 2 AM\u003c\u002fb\u003e\u003cbr\u003eForecast: 45.70 GW","\u003cb\u003eMon May 4 \u00b7 3 AM\u003c\u002fb\u003e\u003cbr\u003eForecast: 45.70 GW","\u003cb\u003eMon May 4 \u00b7 4 AM\u003c\u002fb\u003e\u003cbr\u003eForecast: 45.70 GW","\u003cb\u003eMon May 4 \u00b7 5 AM\u003c\u002fb\u003e\u003cbr\u003eForecast: 45.80 GW","\u003cb\u003eMon May 4 \u00b7 6 AM\u003c\u002fb\u003e\u003cbr\u003eForecast: 47.15 GW","\u003cb\u003eMon May 4 \u00b7 7 AM\u003c\u002fb\u003e\u003cbr\u003eForecast: 49.03 GW","\u003cb\u003eMon May 4 \u00b7 8 AM\u003c\u002fb\u003e\u003cbr\u003eForecast: 50.38 GW","\u003cb\u003eMon May 4 \u00b7 9 AM\u003c\u002fb\u003e\u003cbr\u003eForecast: 50.80 GW","\u003cb\u003eMon May 4 \u00b7 10 AM\u003c\u002fb\u003e\u003cbr\u003eForecast: 51.87 GW","\u003cb\u003eMon May 4 \u00b7 11 AM\u003c\u002fb\u003e\u003cbr\u003eForecast: 52.38 GW","\u003cb\u003eMon May 4 \u00b7 12 PM\u003c\u002fb\u003e\u003cbr\u003eForecast: 53.92 GW","\u003cb\u003eMon May 4 \u00b7 1 PM\u003c\u002fb\u003e\u003cbr\u003eForecast: 55.09 GW","\u003cb\u003eMon May 4 \u00b7 2 PM\u003c\u002fb\u003e\u003cbr\u003eForecast: 56.62 GW","\u003cb\u003eMon May 4 \u00b7 3 PM\u003c\u002fb\u003e\u003cbr\u003eForecast: 59.87 GW","\u003cb\u003eMon May 4 \u00b7 4 PM\u003c\u002fb\u003e\u003cbr\u003eForecast: 63.19 GW","\u003cb\u003eMon May 4 \u00b7 5 PM\u003c\u002fb\u003e\u003cbr\u003eForecast: 65.38 GW","\u003cb\u003eMon May 4 \u00b7 6 PM\u003c\u002fb\u003e\u003cbr\u003eForecast: 64.24 GW"],"line":{"color":"#7e9fc7","shape":"spline","smoothing":1.3,"width":3},"marker":{"color":["#3b4f5e","#465e62","#536c64","#637765","#778066","#8c8869","#a18e6f","#b6917a","#c79289","#d39198","#dc8da6","#e088b3","#df85bf","#d683c9","#c283ce","#a784ce","#8585c9","#6685bf","#4f80ad","#3a7095","#1a1a2e","#1f2240","#27314f","#314058","#3b4f5e","#465e62","#536c64","#637765","#778066","#8c8869","#a18e6f","#b6917a","#c79289","#d39198","#dc8da6","#e088b3","#df85bf","#d683c9","#c283ce"],"line":{"width":0},"size":7},"mode":"lines+markers","name":"Forecast","x":["2026-05-03T04:00:00","2026-05-03T05:00:00","2026-05-03T06:00:00","2026-05-03T07:00:00","2026-05-03T08:00:00","2026-05-03T09:00:00","2026-05-03T10:00:00","2026-05-03T11:00:00","2026-05-03T12:00:00","2026-05-03T13:00:00","2026-05-03T14:00:00","2026-05-03T15:00:00","2026-05-03T16:00:00","2026-05-03T17:00:00","2026-05-03T18:00:00","2026-05-03T19:00:00","2026-05-03T20:00:00","2026-05-03T21:00:00","2026-05-03T22:00:00","2026-05-03T23:00:00","2026-05-04T00:00:00","2026-05-04T01:00:00","2026-05-04T02:00:00","2026-05-04T03:00:00","2026-05-04T04:00:00","2026-05-04T05:00:00","2026-05-04T06:00:00","2026-05-04T07:00:00","2026-05-04T08:00:00","2026-05-04T09:00:00","2026-05-04T10:00:00","2026-05-04T11:00:00","2026-05-04T12:00:00","2026-05-04T13:00:00","2026-05-04T14:00:00","2026-05-04T15:00:00","2026-05-04T16:00:00","2026-05-04T17:00:00","2026-05-04T18:00:00"],"y":[45.325639014795215,45.325639014795215,45.45866852709373,46.87623880225429,48.61051755297672,48.75398609909169,50.063702171421674,50.50154935353443,51.04137551991606,51.05817123032398,51.72554960672043,53.109434455442916,54.98273636443114,58.44551385604312,58.23202545204635,55.77200935068606,54.04029882273275,52.29703616559613,51.53316012179768,50.13023349258877,46.77686061354444,45.95734376915956,45.704402494295934,45.704402494295934,45.704402494295934,45.8048870842264,47.1502228859553,49.032008552357674,50.375204729896055,50.80477012295877,51.87274996281829,52.378112269217674,53.92130364775135,55.09142990189956,56.623124133020646,59.873298470990264,63.188433118348954,65.37516524667461,64.23872147635754],"type":"scatter"}],                        {"template":{"data":{"histogram2dcontour":[{"type":"histogram2dcontour","colorbar":{"outlinewidth":0,"ticks":""},"colorscale":[[0.0,"#0d0887"],[0.1111111111111111,"#46039f"],[0.2222222222222222,"#7201a8"],[0.3333333333333333,"#9c179e"],[0.4444444444444444,"#bd3786"],[0.5555555555555556,"#d8576b"],[0.6666666666666666,"#ed7953"],[0.7777777777777778,"#fb9f3a"],[0.8888888888888888,"#fdca26"],[1.0,"#f0f921"]]}],"choropleth":[{"type":"choropleth","colorbar":{"outlinewidth":0,"ticks":""}}],"histogram2d":[{"type":"histogram2d","colorbar":{"outlinewidth":0,"ticks":""},"colorscale":[[0.0,"#0d0887"],[0.1111111111111111,"#46039f"],[0.2222222222222222,"#7201a8"],[0.3333333333333333,"#9c179e"],[0.4444444444444444,"#bd3786"],[0.5555555555555556,"#d8576b"],[0.6666666666666666,"#ed7953"],[0.7777777777777778,"#fb9f3a"],[0.8888888888888888,"#fdca26"],[1.0,"#f0f921"]]}],"heatmap":[{"type":"heatmap","colorbar":{"outlinewidth":0,"ticks":""},"colorscale":[[0.0,"#0d0887"],[0.1111111111111111,"#46039f"],[0.2222222222222222,"#7201a8"],[0.3333333333333333,"#9c179e"],[0.4444444444444444,"#bd3786"],[0.5555555555555556,"#d8576b"],[0.6666666666666666,"#ed7953"],[0.7777777777777778,"#fb9f3a"],[0.8888888888888888,"#fdca26"],[1.0,"#f0f921"]]}],"heatmapgl":[{"type":"heatmapgl","colorbar":{"outlinewidth":0,"ticks":""},"colorscale":[[0.0,"#0d0887"],[0.1111111111111111,"#46039f"],[0.2222222222222222,"#7201a8"],[0.3333333333333333,"#9c179e"],[0.4444444444444444,"#bd3786"],[0.5555555555555556,"#d8576b"],[0.6666666666666666,"#ed7953"],[0.7777777777777778,"#fb9f3a"],[0.8888888888888888,"#fdca26"],[1.0,"#f0f921"]]}],"contourcarpet":[{"type":"contourcarpet","colorbar":{"outlinewidth":0,"ticks":""}}],"contour":[{"type":"contour","colorbar":{"outlinewidth":0,"ticks":""},"colorscale":[[0.0,"#0d0887"],[0.1111111111111111,"#46039f"],[0.2222222222222222,"#7201a8"],[0.3333333333333333,"#9c179e"],[0.4444444444444444,"#bd3786"],[0.5555555555555556,"#d8576b"],[0.6666666666666666,"#ed7953"],[0.7777777777777778,"#fb9f3a"],[0.8888888888888888,"#fdca26"],[1.0,"#f0f921"]]}],"surface":[{"type":"surface","colorbar":{"outlinewidth":0,"ticks":""},"colorscale":[[0.0,"#0d0887"],[0.1111111111111111,"#46039f"],[0.2222222222222222,"#7201a8"],[0.3333333333333333,"#9c179e"],[0.4444444444444444,"#bd3786"],[0.5555555555555556,"#d8576b"],[0.6666666666666666,"#ed7953"],[0.7777777777777778,"#fb9f3a"],[0.8888888888888888,"#fdca26"],[1.0,"#f0f921"]]}],"mesh3d":[{"type":"mesh3d","colorbar":{"outlinewidth":0,"ticks":""}}],"scatter":[{"fillpattern":{"fillmode":"overlay","size":10,"solidity":0.2},"type":"scatter"}],"parcoords":[{"type":"parcoords","line":{"colorbar":{"outlinewidth":0,"ticks":""}}}],"scatterpolargl":[{"type":"scatterpolargl","marker":{"colorbar":{"outlinewidth":0,"ticks":""}}}],"bar":[{"error_x":{"color":"#2a3f5f"},"error_y":{"color":"#2a3f5f"},"marker":{"line":{"color":"#E5ECF6","width":0.5},"pattern":{"fillmode":"overlay","size":10,"solidity":0.2}},"type":"bar"}],"scattergeo":[{"type":"scattergeo","marker":{"colorbar":{"outlinewidth":0,"ticks":""}}}],"scatterpolar":[{"type":"scatterpolar","marker":{"colorbar":{"outlinewidth":0,"ticks":""}}}],"histogram":[{"marker":{"pattern":{"fillmode":"overlay","size":10,"solidity":0.2}},"type":"histogram"}],"scattergl":[{"type":"scattergl","marker":{"colorbar":{"outlinewidth":0,"ticks":""}}}],"scatter3d":[{"type":"scatter3d","line":{"colorbar":{"outlinewidth":0,"ticks":""}},"marker":{"colorbar":{"outlinewidth":0,"ticks":""}}}],"scattermapbox":[{"type":"scattermapbox","marker":{"colorbar":{"outlinewidth":0,"ticks":""}}}],"scatterternary":[{"type":"scatterternary","marker":{"colorbar":{"outlinewidth":0,"ticks":""}}}],"scattercarpet":[{"type":"scattercarpet","marker":{"colorbar":{"outlinewidth":0,"ticks":""}}}],"carpet":[{"aaxis":{"endlinecolor":"#2a3f5f","gridcolor":"white","linecolor":"white","minorgridcolor":"white","startlinecolor":"#2a3f5f"},"baxis":{"endlinecolor":"#2a3f5f","gridcolor":"white","linecolor":"white","minorgridcolor":"white","startlinecolor":"#2a3f5f"},"type":"carpet"}],"table":[{"cells":{"fill":{"color":"#EBF0F8"},"line":{"color":"white"}},"header":{"fill":{"color":"#C8D4E3"},"line":{"color":"white"}},"type":"table"}],"barpolar":[{"marker":{"line":{"color":"#E5ECF6","width":0.5},"pattern":{"fillmode":"overlay","size":10,"solidity":0.2}},"type":"barpolar"}],"pie":[{"automargin":true,"type":"pie"}]},"layout":{"autotypenumbers":"strict","colorway":["#636efa","#EF553B","#00cc96","#ab63fa","#FFA15A","#19d3f3","#FF6692","#B6E880","#FF97FF","#FECB52"],"font":{"color":"#2a3f5f"},"hovermode":"closest","hoverlabel":{"align":"left"},"paper_bgcolor":"white","plot_bgcolor":"#E5ECF6","polar":{"bgcolor":"#E5ECF6","angularaxis":{"gridcolor":"white","linecolor":"white","ticks":""},"radialaxis":{"gridcolor":"white","linecolor":"white","ticks":""}},"ternary":{"bgcolor":"#E5ECF6","aaxis":{"gridcolor":"white","linecolor":"white","ticks":""},"baxis":{"gridcolor":"white","linecolor":"white","ticks":""},"caxis":{"gridcolor":"white","linecolor":"white","ticks":""}},"coloraxis":{"colorbar":{"outlinewidth":0,"ticks":""}},"colorscale":{"sequential":[[0.0,"#0d0887"],[0.1111111111111111,"#46039f"],[0.2222222222222222,"#7201a8"],[0.3333333333333333,"#9c179e"],[0.4444444444444444,"#bd3786"],[0.5555555555555556,"#d8576b"],[0.6666666666666666,"#ed7953"],[0.7777777777777778,"#fb9f3a"],[0.8888888888888888,"#fdca26"],[1.0,"#f0f921"]],"sequentialminus":[[0.0,"#0d0887"],[0.1111111111111111,"#46039f"],[0.2222222222222222,"#7201a8"],[0.3333333333333333,"#9c179e"],[0.4444444444444444,"#bd3786"],[0.5555555555555556,"#d8576b"],[0.6666666666666666,"#ed7953"],[0.7777777777777778,"#fb9f3a"],[0.8888888888888888,"#fdca26"],[1.0,"#f0f921"]],"diverging":[[0,"#8e0152"],[0.1,"#c51b7d"],[0.2,"#de77ae"],[0.3,"#f1b6da"],[0.4,"#fde0ef"],[0.5,"#f7f7f7"],[0.6,"#e6f5d0"],[0.7,"#b8e186"],[0.8,"#7fbc41"],[0.9,"#4d9221"],[1,"#276419"]]},"xaxis":{"gridcolor":"white","linecolor":"white","ticks":"","title":{"standoff":15},"zerolinecolor":"white","automargin":true,"zerolinewidth":2},"yaxis":{"gridcolor":"white","linecolor":"white","ticks":"","title":{"standoff":15},"zerolinecolor":"white","automargin":true,"zerolinewidth":2},"scene":{"xaxis":{"backgroundcolor":"#E5ECF6","gridcolor":"white","linecolor":"white","showbackground":true,"ticks":"","zerolinecolor":"white","gridwidth":2},"yaxis":{"backgroundcolor":"#E5ECF6","gridcolor":"white","linecolor":"white","showbackground":true,"ticks":"","zerolinecolor":"white","gridwidth":2},"zaxis":{"backgroundcolor":"#E5ECF6","gridcolor":"white","linecolor":"white","showbackground":true,"ticks":"","zerolinecolor":"white","gridwidth":2}},"shapedefaults":{"line":{"color":"#2a3f5f"}},"annotationdefaults":{"arrowcolor":"#2a3f5f","arrowhead":0,"arrowwidth":1},"geo":{"bgcolor":"white","landcolor":"#E5ECF6","subunitcolor":"white","showland":true,"showlakes":true,"lakecolor":"white"},"title":{"x":0.05},"mapbox":{"style":"light"}}},"shapes":[{"line":{"color":"#e8e6e0","dash":"dot","width":1},"opacity":0.5,"type":"line","x0":"2026-05-03 04:49:23","x1":"2026-05-03 04:49:23","y0":0,"y1":1,"yref":"paper"},{"fillcolor":"#1a1a18","layer":"below","line":{"width":0},"opacity":0.4,"type":"rect","x0":"2026-05-02 00:00:00","x1":"2026-05-03 00:00:00","y0":0,"y1":1,"yref":"paper"},{"fillcolor":"#1a1a18","layer":"below","line":{"width":0},"opacity":0.4,"type":"rect","x0":"2026-05-04 00:00:00","x1":"2026-05-05 00:00:00","y0":0,"y1":1,"yref":"paper"}],"annotations":[{"font":{"color":"#e8e6e0","size":11},"showarrow":false,"text":"Now","x":"2026-05-03 04:49:23","xanchor":"left","xshift":4,"y":1,"yanchor":"top","yref":"paper"},{"font":{"color":"#5a5855","family":"Inter, sans-serif","size":10},"showarrow":false,"text":"LightGBM \u00b7 Open-Meteo HRRR \u00b7 2m temp + dewpoint \u00b7 10m wind \u00b7 cloud cover","x":0.99,"xanchor":"right","xref":"paper","y":-0.16,"yanchor":"top","yref":"paper"}],"title":{"font":{"color":"#e8e6e0","size":16,"family":"Inter, sans-serif"},"text":"\u003cb\u003eERCOT 48-Hour Load Forecast\u003c\u002fb\u003e\u003cspan style='font-size:13px;color:#888580;'\u003e  \u00b7  Generated May 3, 4 AM CDT  \u00b7  Test R\u00b2 = 0.7959\u003c\u002fspan\u003e","x":0.02,"xanchor":"left"},"xaxis":{"title":{"font":{"color":"#e8e6e0","size":12},"text":"Date \u002f Time (Central)"},"color":"#5a5855","gridcolor":"#2a2a28","showgrid":true,"gridwidth":0.5,"tickformat":"%-m\u002f%-d\u003cbr\u003e%-I %p","range":["2026-05-02 00:00:00","2026-05-04 18:00:00"]},"yaxis":{"title":{"font":{"color":"#e8e6e0","size":12},"text":"ERCOT Load (GW)"},"color":"#5a5855","gridcolor":"#2a2a28","showgrid":true,"gridwidth":0.5,"range":[36.92662021299881,69.08584503367581]},"font":{"family":"Inter, sans-serif","color":"#5a5855"},"margin":{"l":70,"r":40,"t":70,"b":80},"hoverlabel":{"font":{"color":"#e8e6e0","size":12,"family":"Inter, sans-serif"},"bgcolor":"#1a1a18","bordercolor":"#2a2a28"},"legend":{"font":{"color":"#e8e6e0","size":11},"x":0.01,"y":0.99,"xanchor":"left","yanchor":"top","bgcolor":"rgba(26,26,24,0.6)","bordercolor":"#2a2a28","borderwidth":1},"plot_bgcolor":"#181816","paper_bgcolor":"#0f0f0d","hovermode":"x unified","height":480},                        {"displaylogo": false, "modeBarButtonsToRemove": ["select2d", "lasso2d", "autoScale2d"], "responsive": true}                    )                };                            </script>        </div>
 </body>
 </html>
